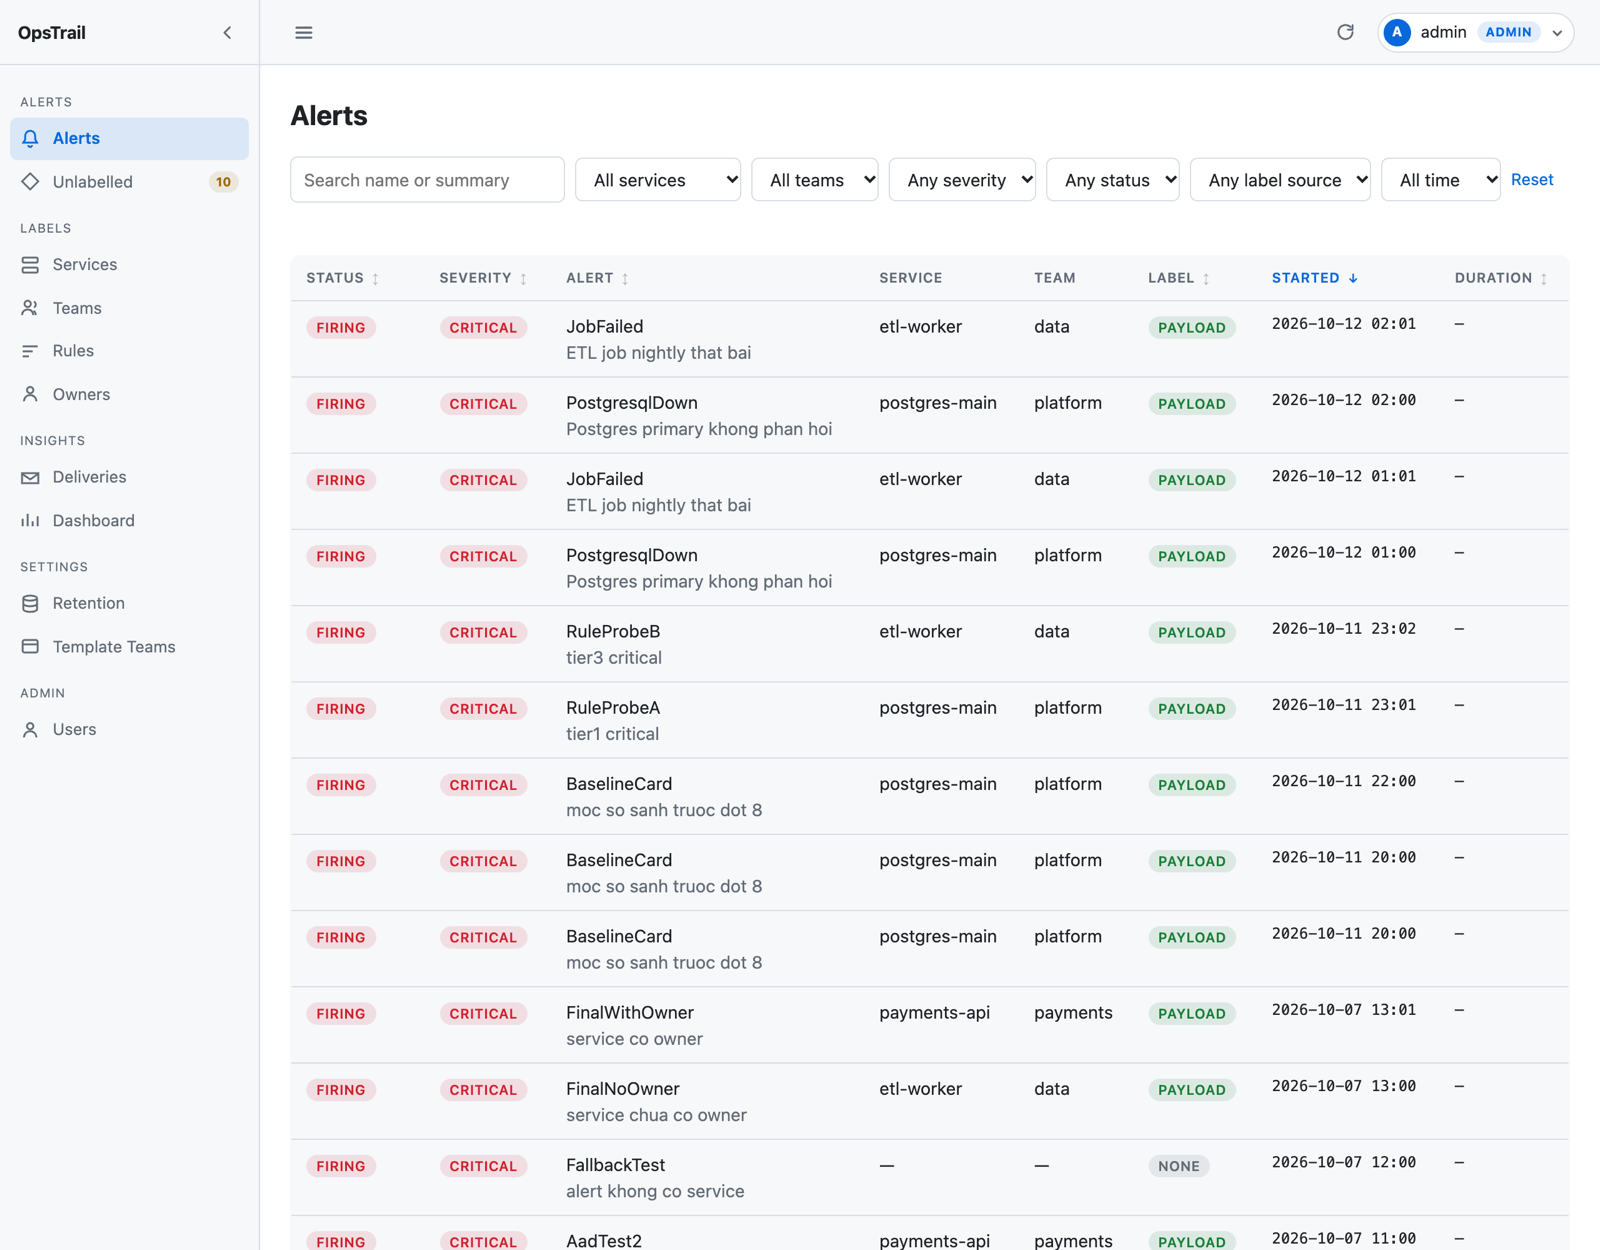
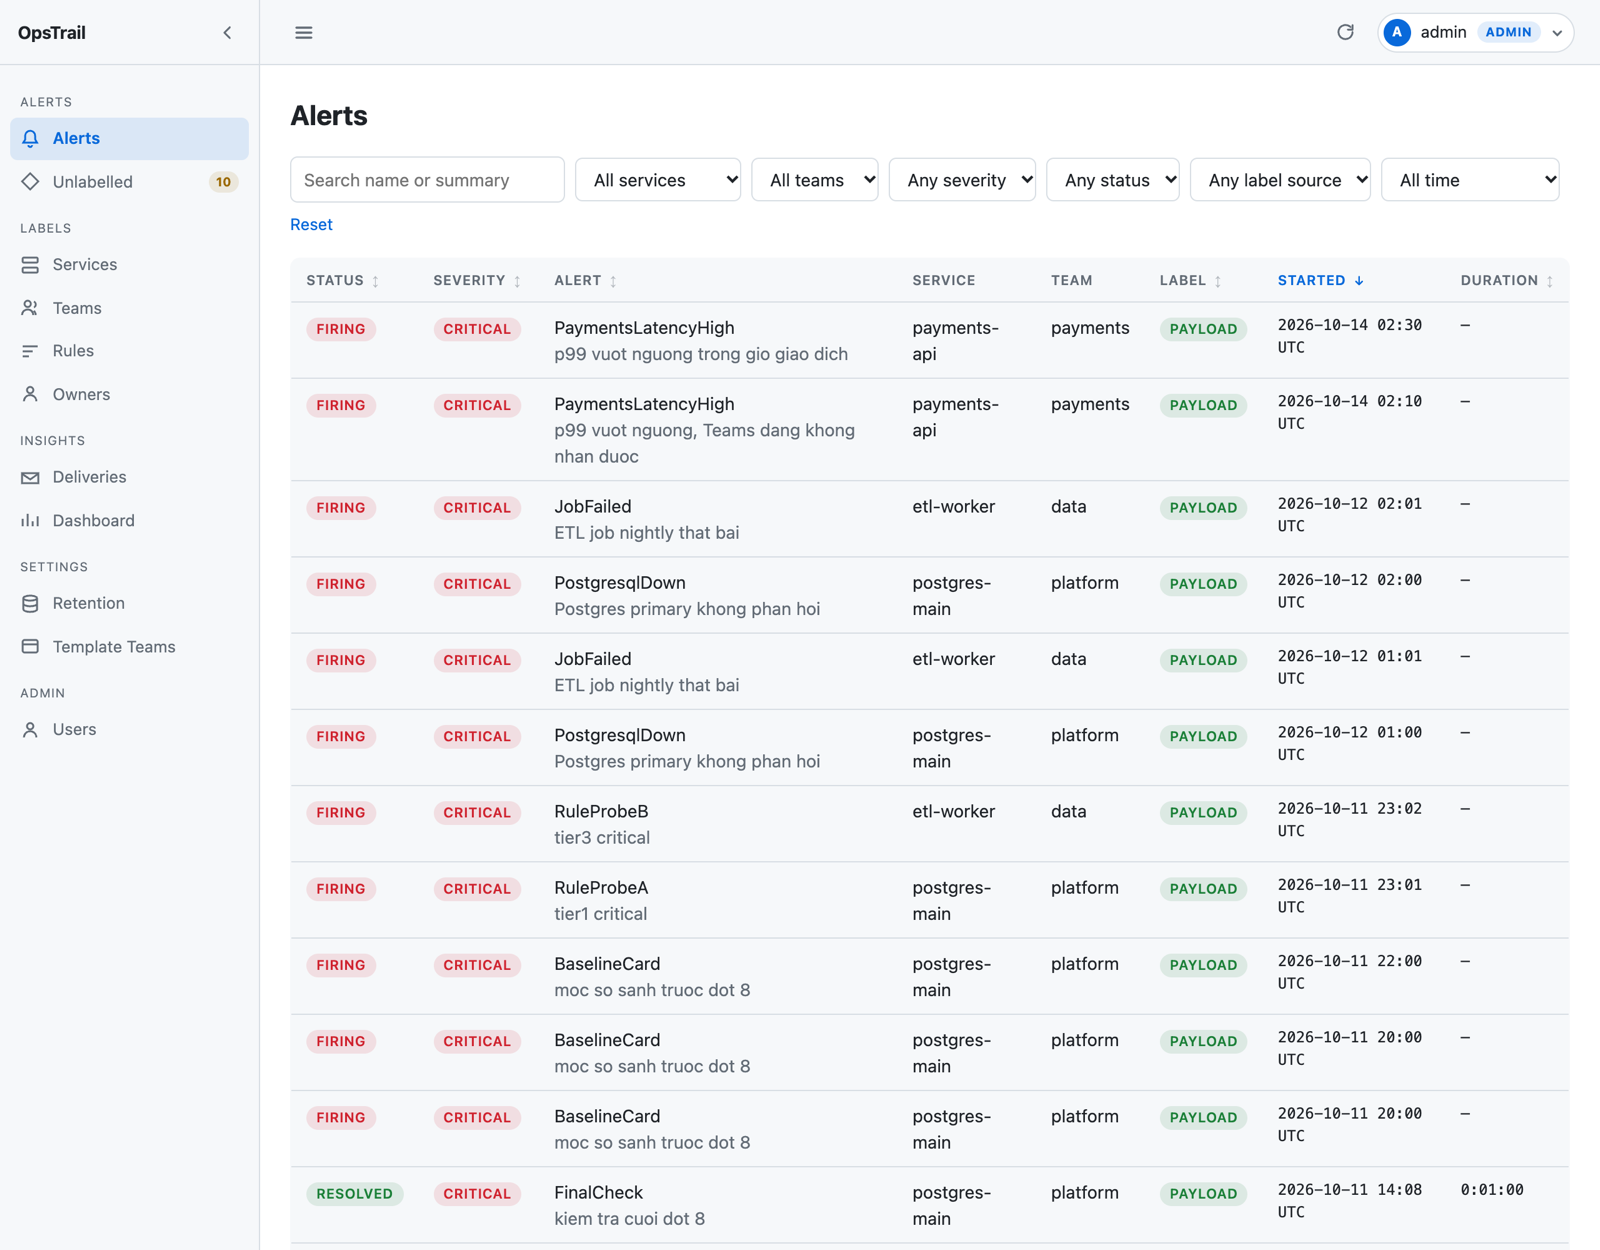
docs: capture screenshots without naming row ids
The capture script pointed the two detail pages at hardcoded ids. Those exist
in one database and are a 404 in the next, and a 404 captured into the docs
is worse than no capture because nothing about it looks wrong.

Both subjects are now discovered from the listings. The delivery page goes
further and opens candidates until it finds one that actually has an error
blob: a row can be marked failed and carry no error at all, and a screenshot
of "no error recorded" on a page whose whole point is the error teaches the
reader nothing.

Timestamps now render in the viewer's zone, so captures would otherwise
differ by whoever ran the script. They are pinned to UTC, with
OPSTRAIL_SHOT_TZ=local to override.

Adds a capture of the time picker with its absolute half open, and
docs/ui.md shows it.

Also exposes DISPATCH_GIVE_UP_AFTER_MINUTES and DISPATCH_BASE_BACKOFF_SECONDS
in docker-compose.yml. They were settings with no way to set them in the dev
stack, which meant reproducing a give-up by hand took an hour of waiting.

diff --git a/deploy/screenshots.py b/deploy/screenshots.py
@@ -13,6 +13,14 @@ Images land in docs/images/ at 2x, then want downscaling to 1600px wide:
 
 Note `--resampleWidth`, not `-Z`: `-Z` scales the LONGEST side, which squashes
 the tall dashboard capture down to an unreadable width.
+
+The detail pages find their own subject rather than naming a row id: an id
+that exists in one database is a 404 in the next, and a 404 captured into the
+docs is worse than no capture because nothing looks wrong about it.
+
+Timestamps render in the viewer's timezone, so captures would otherwise
+differ by whoever ran this. They are pinned to UTC; set
+OPSTRAIL_SHOT_TZ=local to capture in the machine's own zone instead.
 """
 
 import os
@@ -24,6 +32,7 @@ from playwright.sync_api import sync_playwright
 BASE = os.getenv("OPSTRAIL_URL", "http://localhost:8000")
 USER = os.getenv("OPSTRAIL_ADMIN_USER", "admin")
 PWD = os.getenv("OPSTRAIL_ADMIN_PASSWORD", "")
+SHOT_TZ = os.getenv("OPSTRAIL_SHOT_TZ", "utc")
 OUT = pathlib.Path(__file__).resolve().parent.parent / "docs" / "images"
 
 ALERTS = "/alerts?size=25"
@@ -31,26 +40,124 @@ ALERTS = "/alerts?size=25"
 # the thing worth showing.
 BY_SEVERITY = "/alerts?sort=severity&dir=desc&size=25"
 
-# name, path, viewport height, theme, sidebar collapsed, element selector
-SHOTS = [
-    ("alerts-list",          ALERTS,               1000, "light", False, None),
-    ("alerts-sort-severity", BY_SEVERITY,           820, "light", False, None),
-    ("alerts-pager",         ALERTS,               1000, "light", False, ".pager"),
-    ("alert-detail",         "/alerts/816",        1050, "light", False, None),
-    ("deliveries",           "/deliveries?size=25",1000, "light", False, None),
-    ("delivery-detail",      "/deliveries/663",       950, "light", False, None),
-    ("retention",            "/settings/retention", 900, "light", False, None),
-    ("unlabelled",           "/unlabelled",         900, "light", False, None),
-    ("dashboard-light",      "/dashboard",         2400, "light", False, None),
-    ("dashboard-dark",       "/dashboard",         1150, "dark",  False, None),
-    ("label-rules",          "/labels/rules",      1000, "light", False, None),
-    ("services",             "/labels/services",    900, "light", False, None),
-    ("teams",                "/labels/teams",       800, "light", False, None),
-    ("owners",               "/labels/owners",      800, "light", False, None),
-    ("users",                "/users",              800, "light", False, None),
-    ("template-editor",      "/settings/template", 2000, "light", False, None),
-    ("sidebar-collapsed",    ALERTS,                800, "light", True,  None),
-]
+# Rows carry their own link in an onclick handler; this is the only place the
+# capture script knows about the table markup.
+ROW_IDS = """
+() => [...document.querySelectorAll('tbody tr[onclick]')]
+  .map(r => (/\\/(\\d+)'/.exec(r.getAttribute('onclick') || '') || [])[1])
+  .filter(Boolean)
+"""
+
+# The delivery detail page is only worth a screenshot when there is an error
+# on it -- that blob is the reason the page exists. A `<pre>` is rendered
+# only in that branch.
+HAS_ERROR_BLOCK = "() => !!document.querySelector('.card pre')"
+
+# Opens the absolute half of the time picker, so the docs show the control in
+# the state worth explaining rather than its resting state.
+OPEN_ABSOLUTE_RANGE = """
+() => {
+  const sel = document.querySelector('[data-tr-days]');
+  if (!sel) return;
+  sel.value = 'abs';
+  sel.dispatchEvent(new Event('change', {bubbles: true}));
+  const from = document.querySelector('[data-tr-from]');
+  const to = document.querySelector('[data-tr-to]');
+  if (from) from.value = '2026-10-01T00:00';
+  if (to) to.value = '2026-10-05T00:00';
+}
+"""
+
+
+def shot(name, path, height=900, theme="light", collapsed=False,
+         selector=None, prepare=None):
+    return {
+        "name": name, "path": path, "height": height, "theme": theme,
+        "collapsed": collapsed, "selector": selector, "prepare": prepare,
+    }
+
+
+def row_ids(page, listing: str) -> list[str]:
+    page.goto(f"{BASE}{listing}")
+    page.wait_for_load_state("networkidle")
+    return page.evaluate(ROW_IDS)
+
+
+def find_subject(page, *listings: str) -> str | None:
+    """The id of the first row of the first listing that has any.
+
+    Earlier listings are the more illustrative views; a clean install may
+    have none of those, so each falls back to the next.
+    """
+    for listing in listings:
+        found = row_ids(page, listing)
+        if found:
+            return found[0]
+    return None
+
+
+def find_delivery(page, probe_limit: int = 24) -> str | None:
+    """A delivery whose detail page has something to show.
+
+    Picking the newest failure is not enough: a row can be marked failed and
+    carry no error text at all, and a screenshot of "no error recorded" on a
+    page whose whole point is the error teaches the reader nothing. So the
+    candidates are opened until one of them actually has the block.
+    """
+    # Every listing is read before any probing. Stopping at the first one
+    # that filled the quota would hide a newer, better subject sitting in
+    # the next -- which is exactly what happened the first time this ran.
+    candidates: list[str] = []
+    for listing in ("/deliveries?delivery_status=failed&size=25",
+                    "/deliveries?delivery_status=sent&size=25",
+                    "/deliveries?size=25"):
+        for found in row_ids(page, listing):
+            if found not in candidates:
+                candidates.append(found)
+
+    for candidate in candidates[:probe_limit]:
+        page.goto(f"{BASE}/deliveries/{candidate}")
+        page.wait_for_load_state("networkidle")
+        if page.evaluate(HAS_ERROR_BLOCK):
+            return candidate
+    # Nothing in this database has an error. Still better than no capture.
+    return candidates[0] if candidates else None
+
+
+def build_shots(page) -> list[dict]:
+    # A resolved alert shows a duration; an unresolved one shows a dash.
+    alert_id = find_subject(page, "/alerts?alert_status=resolved&size=25", ALERTS)
+    delivery_id = find_delivery(page)
+
+    shots = [
+        shot("alerts-list", ALERTS, 1000),
+        shot("alerts-sort-severity", BY_SEVERITY, 820),
+        shot("alerts-pager", ALERTS, 1000, selector=".pager"),
+        shot("timerange", ALERTS, 700, selector=".filters",
+             prepare=OPEN_ABSOLUTE_RANGE),
+        shot("deliveries", "/deliveries?size=25", 1000),
+        shot("retention", "/settings/retention", 900),
+        shot("unlabelled", "/unlabelled", 900),
+        shot("dashboard-light", "/dashboard", 2400),
+        shot("dashboard-dark", "/dashboard", 1150, theme="dark"),
+        shot("label-rules", "/labels/rules", 1000),
+        shot("services", "/labels/services", 900),
+        shot("teams", "/labels/teams", 800),
+        shot("owners", "/labels/owners", 800),
+        shot("users", "/users", 800),
+        shot("template-editor", "/settings/template", 2000),
+        shot("sidebar-collapsed", ALERTS, 800, collapsed=True),
+    ]
+    if alert_id:
+        shots.insert(4, shot("alert-detail", f"/alerts/{alert_id}", 1050))
+    else:
+        print("SKIP alert-detail: no alerts in this database", file=sys.stderr)
+    if delivery_id:
+        shots.insert(6, shot("delivery-detail", f"/deliveries/{delivery_id}", 950))
+    else:
+        print("SKIP delivery-detail: no deliveries in this database",
+              file=sys.stderr)
+    return shots
 
 
 def main() -> int:
@@ -74,29 +181,37 @@ def main() -> int:
             print("login failed", file=sys.stderr)
             return 1
 
-        for name, path, height, theme, collapsed, selector in SHOTS:
-            page.set_viewport_size({"width": 1280, "height": height})
-            # Theme and sidebar state live in localStorage and are applied by
-            # an inline script in <head>, so they must be set before the load.
+        for item in build_shots(page):
+            page.set_viewport_size({"width": 1280, "height": item["height"]})
+            # Theme, sidebar and timezone all live in localStorage and are
+            # applied before first paint, so they must be set before the load.
             page.evaluate(
-                "([t, c]) => { localStorage.setItem('opstrail-theme', t);"
+                "([t, c, z]) => {"
+                " localStorage.setItem('opstrail-theme', t);"
                 " localStorage.setItem('opstrail-sidebar',"
-                " c ? 'collapsed' : 'expanded'); }",
-                [theme, collapsed],
+                " c ? 'collapsed' : 'expanded');"
+                " localStorage.setItem('opstrail-tz', z); }",
+                [item["theme"], item["collapsed"], SHOT_TZ],
             )
-            resp = page.goto(f"{BASE}{path}")
+            resp = page.goto(f"{BASE}{item['path']}")
             page.wait_for_load_state("networkidle")
             page.wait_for_timeout(1200)  # let Chart.js finish drawing
             if resp and resp.status >= 400:
-                print(f"SKIP {name}: HTTP {resp.status} at {path}", file=sys.stderr)
+                print(f"SKIP {item['name']}: HTTP {resp.status} at {item['path']}",
+                      file=sys.stderr)
                 continue
-            target = page.locator(selector).first if selector else page
+            if item["prepare"]:
+                page.evaluate(item["prepare"])
+                page.wait_for_timeout(400)
+            target = (
+                page.locator(item["selector"]).first if item["selector"] else page
+            )
             try:
-                target.screenshot(path=str(OUT / f"{name}.png"))
+                target.screenshot(path=str(OUT / f"{item['name']}.png"))
             except Exception as exc:  # noqa: BLE001
-                print(f"SKIP {name}: {exc}", file=sys.stderr)
+                print(f"SKIP {item['name']}: {exc}", file=sys.stderr)
                 continue
-            print(f"{name}.png  {path}  {theme}")
+            print(f"{item['name']}.png  {item['path']}  {item['theme']}")
 
         browser.close()
     return 0

diff --git a/docs/ui.md b/docs/ui.md
@@ -65,6 +65,8 @@ Bộ chọn dùng chung cho **Alerts**, **Unlabelled**, **Deliveries** và
 **Dashboard**: vài mốc tương đối sẵn (`Last 1d/7d/30d/90d`), hoặc chọn
 **Khoảng cụ thể…** để hiện hai ô nhập ngày giờ.
 
+![Bộ chọn khoảng thời gian](images/timerange.png)
+
 Khoảng tuyệt đối đi vào URL (`?from=…&to=…&tz_offset=…`) nên dán được vào
 ticket, và bấm từ ô số liệu trên dashboard sang Alerts thì khoảng đang xem đi
 theo — hai trang không nói hai con số khác nhau.
